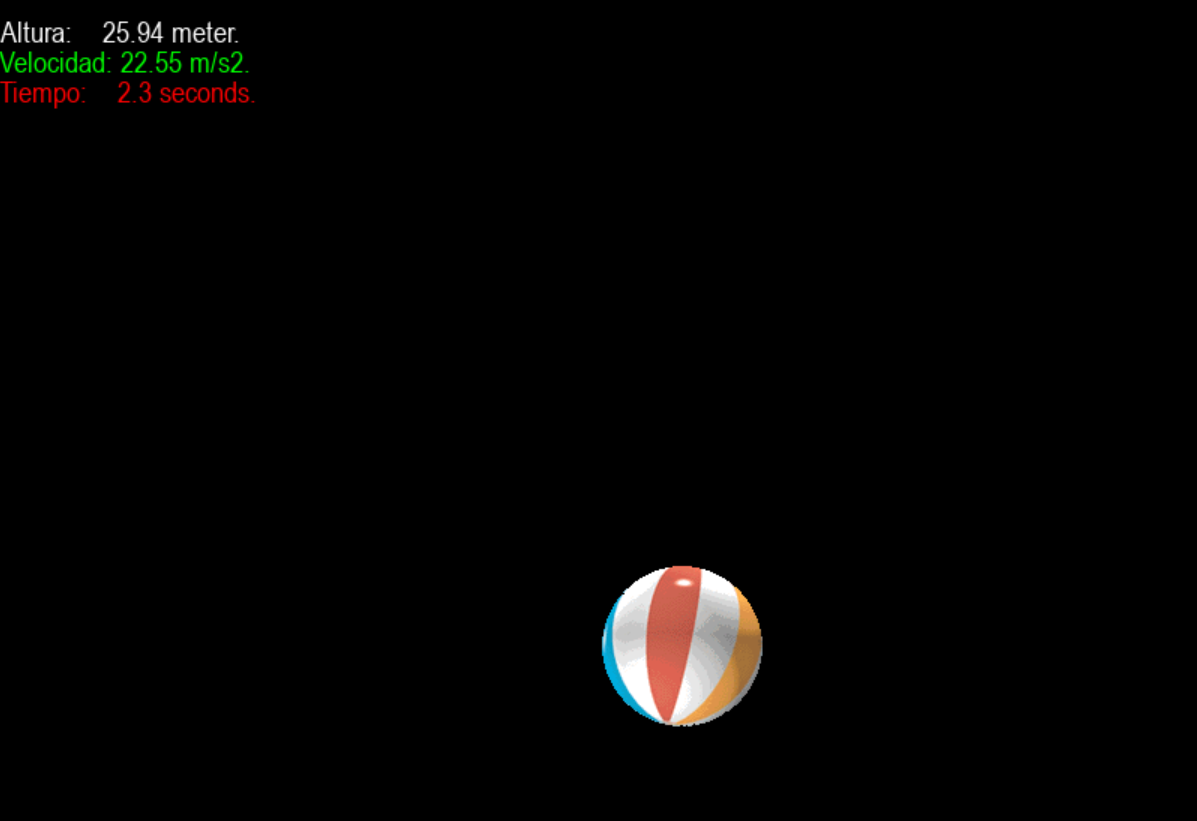
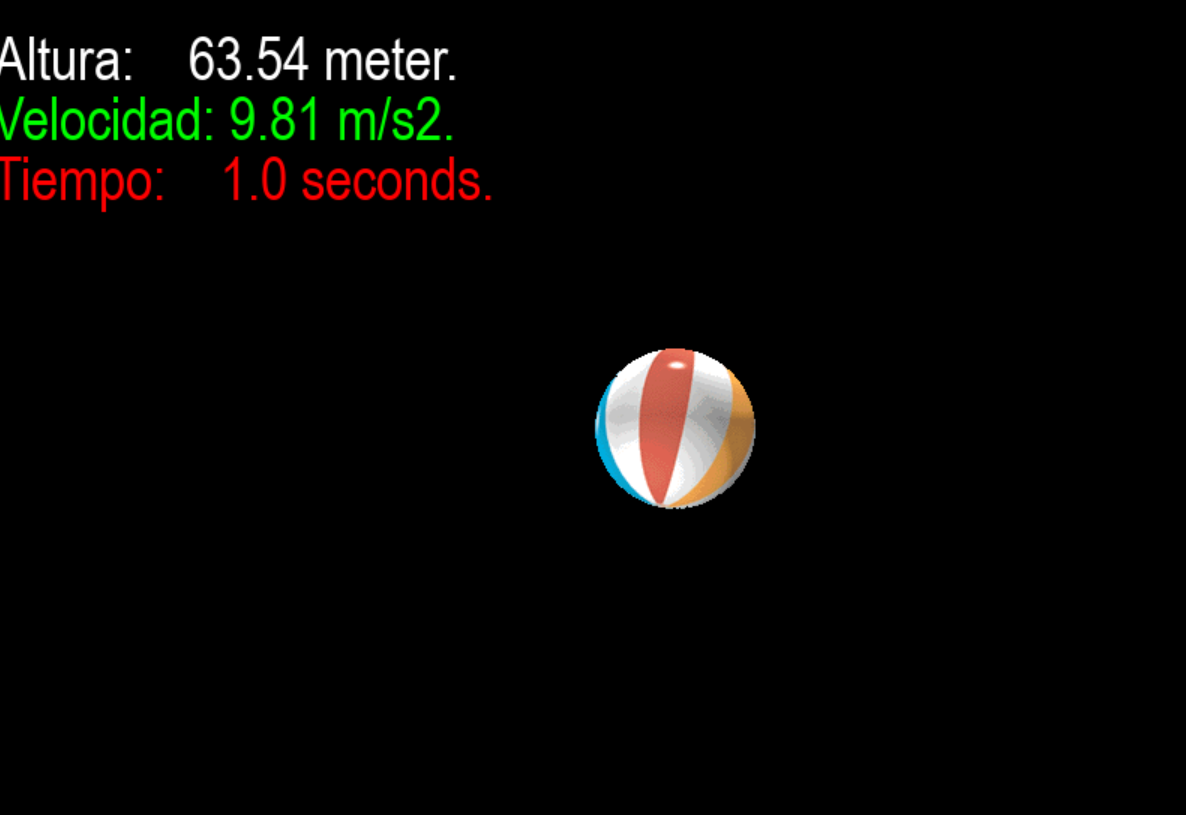
added animation

Changed region(s): [[0.0, 0.0307, 0.4056, 0.2454], [0.4992, 0.4294, 0.6551, 0.6442], [0.4992, 0.6748, 0.6551, 0.8896]]

diff --git a/main.py b/main.py
@@ -41,7 +41,7 @@ ballrect = ball.get_rect() #It obtains the rectangle of the ball.gif after its c
 
 
 #-----GLOBAL VARIABLES-----
-FONT_ARIAL = pygame.font.SysFont("Arial", 20)
+FONT_ARIAL = pygame.font.SysFont("Arial", 40)
 GRAVITY = 9.806
 #-----VARIABLES----- 
 h = t = i = 0 #initializes the variables.
@@ -69,7 +69,7 @@ i = 0 #restart value if iterator to 0.
 #while True: 
 for data in reversed(freeFall):
 
-    #-----Text to show in screen ------
+    #-----Text to show in screen ------/
     strV = "Velocidad: "+str(freeFall[i][0])+" m/s2." #Save an string with the message
     txtV = FONT_ARIAL.render(strV, True, colors["GREEN"]) #Render the message with the font and color. 
     strH = "Altura:    "+str(data[1])+" meter."
@@ -86,8 +86,8 @@ for data in reversed(freeFall):
     screen.blit(ball, (mtr[0],mtr[1]-ballrect.height))
 
     screen.blit(txtH, (0,20))
-    screen.blit(txtV, (0,40))
-    screen.blit(txtT, (0,60))
+    screen.blit(txtV, (0,60))
+    screen.blit(txtT, (0,100))
     #-----ZONA DE DIBUJO-----
     pygame.display.flip()
     time.sleep(0.1)
